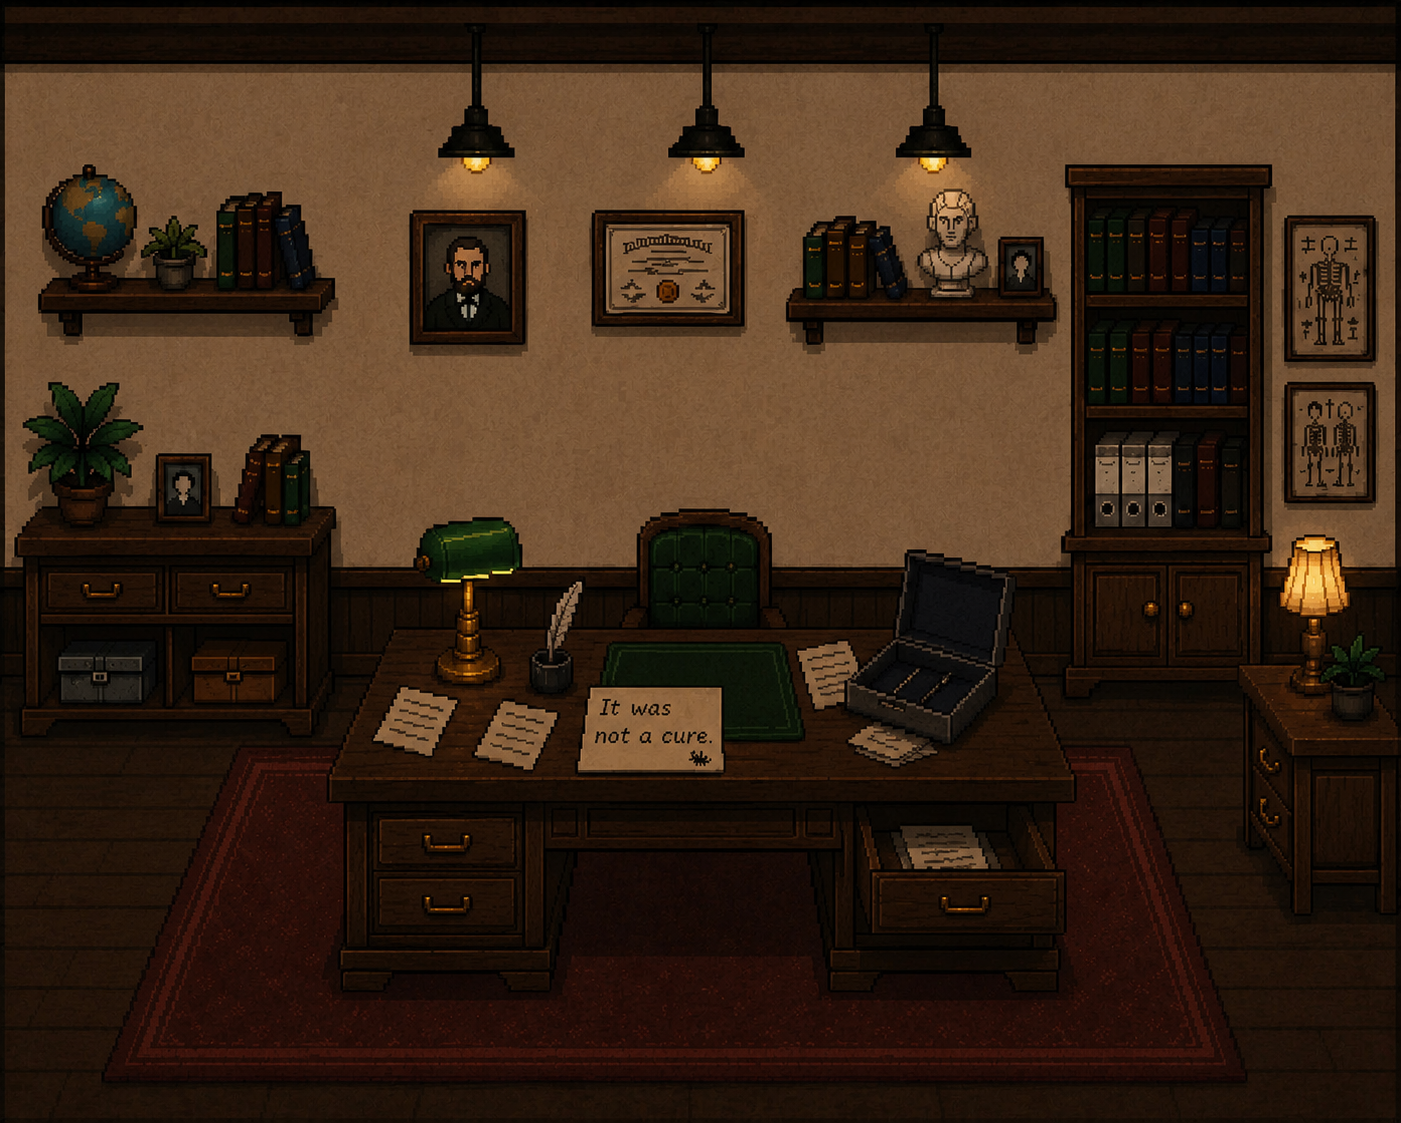
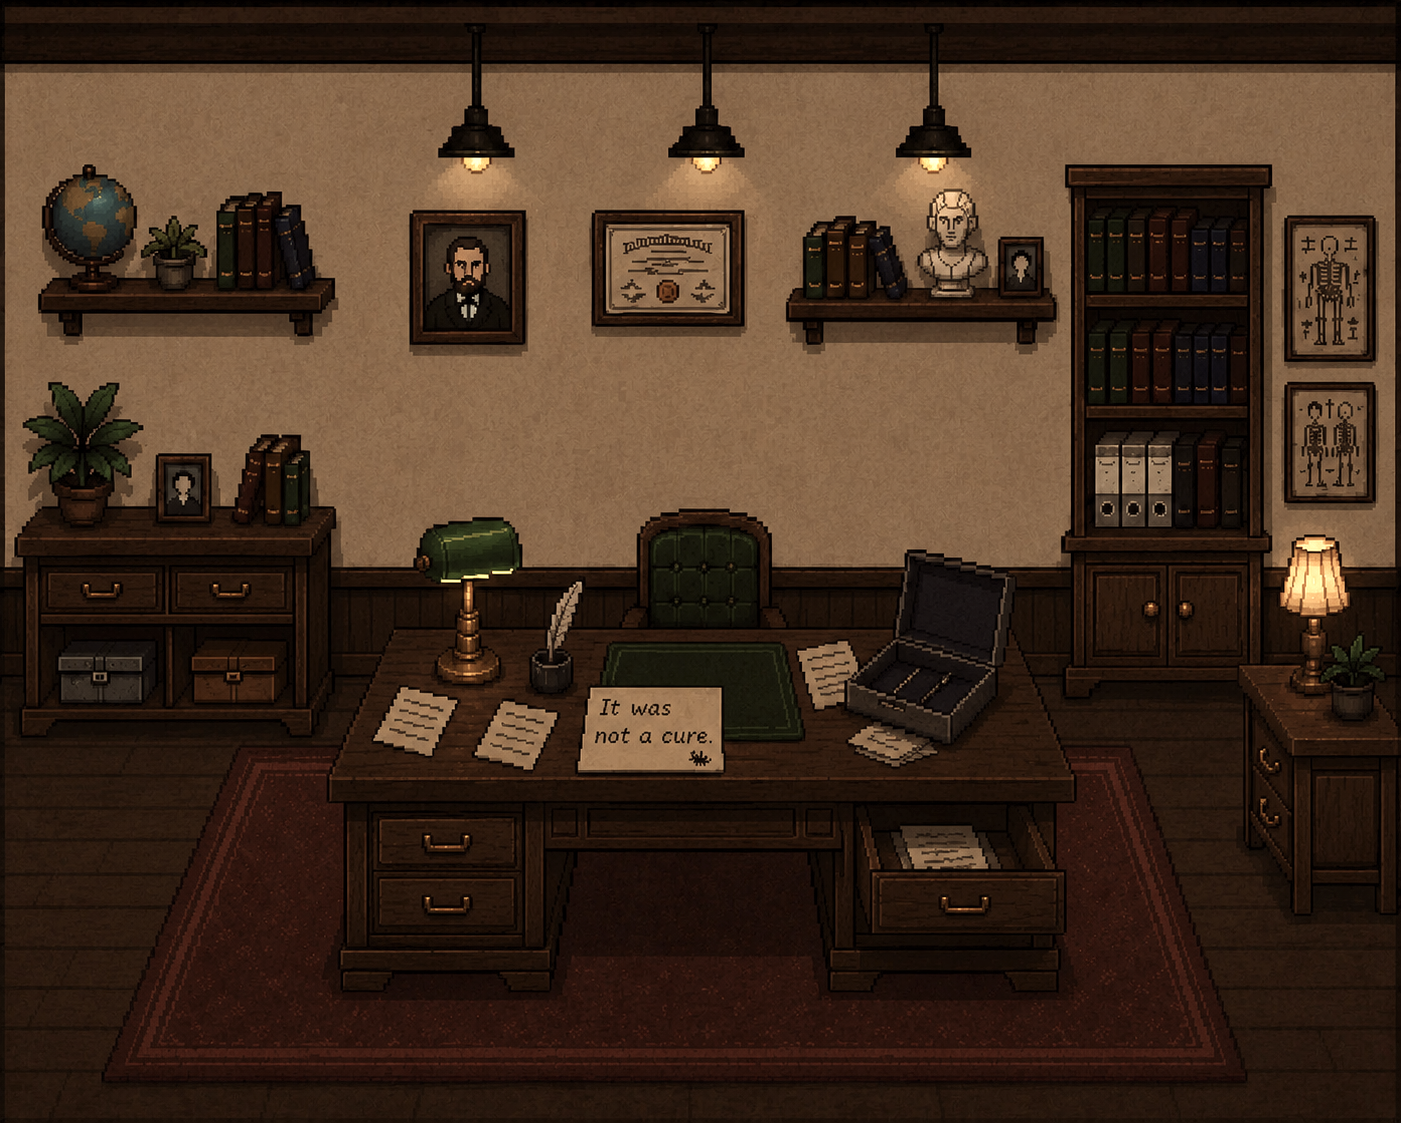
add crime scene

diff --git a/core/src/main/java/com/gdx/game/ui/screens/CharacterInteriorScreen.java b/core/src/main/java/com/gdx/game/ui/screens/CharacterInteriorScreen.java
@@ -94,7 +94,9 @@ public class CharacterInteriorScreen implements Screen, GestureDetector.GestureL
         this.background = new Texture(backgroundPath);
         this.characterId = characterId;
         this.buildingId = buildingId;
-        this.characterTexture = new Texture(fullBody);
+        this.characterTexture = fullBody != null && !fullBody.isEmpty()
+            ? new Texture(fullBody)
+            : null;
         this.npcService = game.getNpcDialogueService();
 
         camera = new OrthographicCamera();
@@ -118,7 +120,7 @@ public class CharacterInteriorScreen implements Screen, GestureDetector.GestureL
         dialogueStage.addActor(statsPanelBackground);
         statsPanelBackground.toBack();
 
-        characterImage = new Image(characterTexture);
+        characterImage = characterTexture != null ? new Image(characterTexture) : new Image();
         dialogueStage.addActor(characterImage);
 
         questionAreaTexture = new Texture(Assets.QUESTION_AREA);
@@ -225,12 +227,16 @@ public class CharacterInteriorScreen implements Screen, GestureDetector.GestureL
         lastQuestionLabel.setVisible(lastSubmittedQuestion != null && !lastSubmittedQuestion.isEmpty());
     }
 
+    private boolean hasInteractiveNpc() {
+        return characterId != null && !characterId.isEmpty() && characterTexture != null;
+    }
+
     @Override
     public void show() {
         screenActive = true;
         game.overlay.setVisible(true);
         game.overlay.setInInterior(true);
-        game.overlay.setCurrentNpcId(characterId);
+        game.overlay.setCurrentNpcId(hasInteractiveNpc() ? characterId : null);
         game.overlay.setCurrentInteriorBuildingId(buildingId);
         playLocationAmbience();
 
@@ -272,6 +278,25 @@ public class CharacterInteriorScreen implements Screen, GestureDetector.GestureL
         dialogueStage.addActor(lastQuestionLabel);
         dialogueStage.addActor(inputField);
         dialogueStage.addActor(charCounterLabel);
+
+        if (!hasInteractiveNpc()) {
+            questionAreaImage.setVisible(false);
+            sendButtonImage.setVisible(false);
+            inputField.setVisible(false);
+            inputField.setDisabled(true);
+            lastQuestionLabel.setVisible(false);
+            charCounterLabel.setVisible(false);
+            answerAreaImage.setVisible(false);
+            dialogueLabel.setVisible(false);
+            statsPanelBackground.setVisible(false);
+            trustImage.setVisible(false);
+            fearImage.setVisible(false);
+            moodImage.setVisible(false);
+            trustLabel.setVisible(false);
+            fearLabel.setVisible(false);
+            moodLabel.setVisible(false);
+            characterImage.setVisible(false);
+        }
 
         resize(Gdx.graphics.getWidth(), Gdx.graphics.getHeight());
 
@@ -333,6 +358,7 @@ public class CharacterInteriorScreen implements Screen, GestureDetector.GestureL
     }
 
     private void updateNpcStateHud() {
+        if (!hasInteractiveNpc()) return;
         if (trustLabel == null || fearLabel == null || moodLabel == null) return;
 
         NpcState state = npcService.getStateForUi(characterId);
@@ -446,53 +472,55 @@ public class CharacterInteriorScreen implements Screen, GestureDetector.GestureL
         inputField.setPosition(inputX, inputBottom);
         inputField.setStyle(createTextFieldStyle());
 
-        float texW = characterTexture.getWidth();
-        float texH = characterTexture.getHeight();
+        if (hasInteractiveNpc()) {
+            float texW = characterTexture.getWidth();
+            float texH = characterTexture.getHeight();
 
-        float scaleByWidth = (width * profile.getCharacterWidthRatio()) / texW;
-        float scaleByHeight = (height * profile.getCharacterHeightRatio()) / texH;
+            float scaleByWidth = (width * profile.getCharacterWidthRatio()) / texW;
+            float scaleByHeight = (height * profile.getCharacterHeightRatio()) / texH;
 
-        float scale = Math.min(scaleByWidth, scaleByHeight);
+            float scale = Math.min(scaleByWidth, scaleByHeight);
 
-        float characterDrawW = texW * scale;
-        float characterDrawH = texH * scale;
+            float characterDrawW = texW * scale;
+            float characterDrawH = texH * scale;
 
-        float iconSize = characterDrawH * 0.10f;
-        float lineGap = iconSize + profile.scale(8f);
+            float iconSize = characterDrawH * 0.10f;
+            float lineGap = iconSize + profile.scale(8f);
 
-        updateStatsFontScale(iconSize);
+            updateStatsFontScale(iconSize);
 
-        float charY = height * profile.getCharacterBottomRatio();
-        float charX = width  * 0.5f - characterDrawW / 2f;
+            float charY = height * profile.getCharacterBottomRatio();
+            float charX = width  * 0.5f - characterDrawW / 2f;
 
-        float panelX = charX + characterDrawW + profile.scale(20f);
-        float panelY = charY + characterDrawH * 0.6f;
+            float panelX = charX + characterDrawW + profile.scale(20f);
+            float panelY = charY + characterDrawH * 0.6f;
 
-        if (panelX + iconSize + profile.scale(80f) > width) {
-            panelX = charX - iconSize - profile.scale(90f);
+            if (panelX + iconSize + profile.scale(80f) > width) {
+                panelX = charX - iconSize - profile.scale(90f);
+            }
+
+            trustImage.setBounds(panelX, panelY + lineGap, iconSize, iconSize);
+            trustLabel.setPosition(
+                trustImage.getX() + iconSize + profile.scale(6f),
+                trustImage.getY() + iconSize * 0.4f
+            );
+
+            fearImage.setBounds(panelX, panelY, iconSize, iconSize);
+            fearLabel.setPosition(
+                fearImage.getX() + iconSize + profile.scale(6f),
+                fearImage.getY() + iconSize * 0.4f
+            );
+
+            moodImage.setBounds(panelX, panelY - lineGap, iconSize, iconSize);
+            moodLabel.setPosition(
+                moodImage.getX() + iconSize + profile.scale(6f),
+                moodImage.getY() + iconSize * 0.4f
+            );
+
+            characterImage.setBounds(charX, charY, characterDrawW, characterDrawH);
+            updateAnswerBubbleLayout(width, height);
+            layoutStatsPanel();
         }
-
-        trustImage.setBounds(panelX, panelY + lineGap, iconSize, iconSize);
-        trustLabel.setPosition(
-            trustImage.getX() + iconSize + profile.scale(6f),
-            trustImage.getY() + iconSize * 0.4f
-        );
-
-        fearImage.setBounds(panelX, panelY, iconSize, iconSize);
-        fearLabel.setPosition(
-            fearImage.getX() + iconSize + profile.scale(6f),
-            fearImage.getY() + iconSize * 0.4f
-        );
-
-        moodImage.setBounds(panelX, panelY - lineGap, iconSize, iconSize);
-        moodLabel.setPosition(
-            moodImage.getX() + iconSize + profile.scale(6f),
-            moodImage.getY() + iconSize * 0.4f
-        );
-
-        characterImage.setBounds(charX, charY, characterDrawW, characterDrawH);
-        updateAnswerBubbleLayout(width, height);
-        layoutStatsPanel();
 
         dialogueStage.getViewport().update(width, height, true);
 
@@ -539,7 +567,9 @@ public class CharacterInteriorScreen implements Screen, GestureDetector.GestureL
     public void dispose() {
         screenActive = false;
         background.dispose();
-        characterTexture.dispose();
+        if (characterTexture != null) {
+            characterTexture.dispose();
+        }
     }
 
     private void handleQuestion(String question) {

diff --git a/core/src/main/java/com/gdx/game/ui/component/chars/CharacterIcon.java b/core/src/main/java/com/gdx/game/ui/component/chars/CharacterIcon.java
@@ -21,6 +21,7 @@ public class CharacterIcon extends Image {
 
     private final String id;
     private final String fullBodyPath;
+    private final boolean opensInterior;
     private String buildingId;
     private BuildingData linkedBuilding;
     private String fallbackInteriorBackground;
@@ -36,10 +37,22 @@ public class CharacterIcon extends Image {
     private float targetY;
 
     public CharacterIcon(DetectiveGame game, String id, String iconPath, String fullBodyPath, String buildingId) {
+        this(game, id, iconPath, fullBodyPath, buildingId, true);
+    }
+
+    public CharacterIcon(
+        DetectiveGame game,
+        String id,
+        String iconPath,
+        String fullBodyPath,
+        String buildingId,
+        boolean opensInterior
+    ) {
         super(new Texture(iconPath));
         this.id = id;
         this.fullBodyPath = fullBodyPath;
         this.buildingId = buildingId;
+        this.opensInterior = opensInterior;
 
         setSize(baseSize , baseSize);
 
@@ -49,7 +62,9 @@ public class CharacterIcon extends Image {
             @Override
             public void enter(InputEvent event, float x, float y, int pointer, Actor fromActor) {
                 getColor().a = 1f;
-                Gdx.graphics.setSystemCursor(Cursor.SystemCursor.Hand);
+                Gdx.graphics.setSystemCursor(
+                    CharacterIcon.this.opensInterior ? Cursor.SystemCursor.Hand : Cursor.SystemCursor.Arrow
+                );
             }
 
             @Override
@@ -60,6 +75,10 @@ public class CharacterIcon extends Image {
 
             @Override
             public boolean touchDown(InputEvent event, float x, float y, int pointer, int button) {
+                if (!CharacterIcon.this.opensInterior) {
+                    return true;
+                }
+
                 if (linkedBuilding != null) {
                     String backgroundPath = resolveInteriorBackground();
                     if (backgroundPath == null) {
@@ -76,10 +95,11 @@ public class CharacterIcon extends Image {
                         }
 
                         transition.startFadeOut(0.7f, () -> {
+                            String interiorNpcId = CharacterIcon.this.fullBodyPath != null ? id : null;
                             CharacterInteriorScreen interiorScreen = new CharacterInteriorScreen(
                                 game,
                                 backgroundPath,
-                                id,
+                                interiorNpcId,
                                 CharacterIcon.this.fullBodyPath,
                                 CharacterIcon.this.buildingId
                             );

diff --git a/core/src/main/java/com/gdx/game/ui/screens/MapScreen.java b/core/src/main/java/com/gdx/game/ui/screens/MapScreen.java
@@ -30,6 +30,7 @@ import java.util.Objects;
 
 public class MapScreen implements Screen {
     private static final boolean DEBUG_BUILDING_RECTS = false;
+    private static final String CRIME_SCENE_BUILDING_ID = "professor_house";
     private static final float FOUNTAIN_FRAME_DURATION = 0.14f;
     private static final float MAX_NIGHT_ALPHA = 0.52f;
     private static final float MAX_LIGHT_ALPHA = 0.82f;
@@ -60,6 +61,7 @@ public class MapScreen implements Screen {
     private final MapInputController inputController;
 
     private final List<CharacterIcon> icons;
+    private final CharacterIcon crimeSceneIcon;
     private final List<BuildingData> buildings;
     private final Map<String, BuildingData> buildingMap;
 
@@ -85,6 +87,13 @@ public class MapScreen implements Screen {
         inputController = new MapInputController(camera, viewport);
 
         icons = CharacterLoader.loadMarkers(game, "characters.json");
+        crimeSceneIcon = new CharacterIcon(
+            game,
+            "crime_scene",
+            Assets.CRIME_SCENE_ICON,
+            null,
+            CRIME_SCENE_BUILDING_ID
+        );
         buildings = BuildingLoader.loadBuildings("buildings.json");
         buildingMap = BuildingLoader.toMap(buildings);
     }
@@ -104,6 +113,10 @@ public class MapScreen implements Screen {
             applyNpcLocation(icon);
             mapStage.addActor(icon);
         }
+
+        BuildingData crimeSceneBuilding = buildingMap.get(CRIME_SCENE_BUILDING_ID);
+        crimeSceneIcon.setBuilding(crimeSceneBuilding);
+        mapStage.addActor(crimeSceneIcon);
 
        game.overlay.showProloguePublic();
 
@@ -171,6 +184,7 @@ public class MapScreen implements Screen {
         for (CharacterIcon marker : icons) {
             marker.updatePositionFromBuilding(drawWidth, drawHeight, getMapScale());
         }
+        crimeSceneIcon.updatePositionFromBuilding(drawWidth, drawHeight, getMapScale());
     }
 
     @Override

diff --git a/core/src/main/java/com/gdx/game/ai/NpcDialogueService.java b/core/src/main/java/com/gdx/game/ai/NpcDialogueService.java
@@ -239,11 +239,11 @@ public class NpcDialogueService {
             case "town_hall":
                 return "ратуша";
             case "doctor_house":
+                return "будинок Мари";
+            case "professor_house":
                 return "будинок Вальтера";
             case "sister_house":
                 return "будинок Клари";
-            case "professor_house":
-                return "будинок Мари";
             case "cashier_house":
                 return "будинок Елени";
             case "officer_house":

diff --git a/core/src/main/java/com/gdx/game/ui/component/chars/NpcLocationService.java b/core/src/main/java/com/gdx/game/ui/component/chars/NpcLocationService.java
@@ -15,7 +15,7 @@ public class NpcLocationService {
     private static final String BUILDING_KEY_PREFIX = "npc.";
     private static final int MOVE_INTERVAL_GAME_MINUTES = 10;
     private static final int MOVE_CHANCE_PERCENT = 45;
-    private static final String VICTIM_HOME_BUILDING_ID = "doctor_house";
+    private static final String VICTIM_HOME_BUILDING_ID = "professor_house";
 
     private final Preferences prefs;
     private final Array<String> npcIds = new Array<>();
@@ -99,7 +99,7 @@ public class NpcLocationService {
 
     private void configurePrivateHomes() {
         registerHome("ernst", "officer_house");
-        registerHome("mara", "professor_house");
+        registerHome("mara", "doctor_house");
         registerHome("liam", "student_house");
         registerHome("elena", "cashier_house");
         registerHome("clara", "sister_house");

diff --git a/core/src/main/java/com/gdx/game/ui/overlay/UIOverlayManager.java b/core/src/main/java/com/gdx/game/ui/overlay/UIOverlayManager.java
@@ -142,6 +142,8 @@ public class UIOverlayManager {
             chatHistoryPopup.remove();
             chatHistoryPopup = null;
         }
+
+        chatButton.setVisible(inInterior && currentNpcId != null && !currentNpcId.isEmpty());
     }
 
     public void setCurrentInteriorBuildingId(String buildingId) {
@@ -279,6 +281,7 @@ public class UIOverlayManager {
                 uiStage.getViewport().getWorldWidth(),
                 uiStage.getViewport().getWorldHeight()
             );
+            chatButton.setVisible(currentNpcId != null && !currentNpcId.isEmpty());
 
         } else {
             timer.showGameTimeLabel(true);

diff --git a/core/src/main/java/com/gdx/game/infrastructure/Assets.java b/core/src/main/java/com/gdx/game/infrastructure/Assets.java
@@ -63,6 +63,7 @@ public class Assets {
     public static final String CHAT_BUTTON = "map/chat/chat.png";
     public static final String QUESTION_AREA = "map/question.9.png";
     public static final String SEND_BUTTON = "map/send.png";
+    public static final String CRIME_SCENE_ICON = "map/crime_scene_icon.png";
     public static final String CHAT_HISTORY_POPUP = "map/chat/chat_history.png";
     public static final String ANSWER_AREA = "map/answer.png";
     public static final String STATISTICS = "map/stats.9.png";